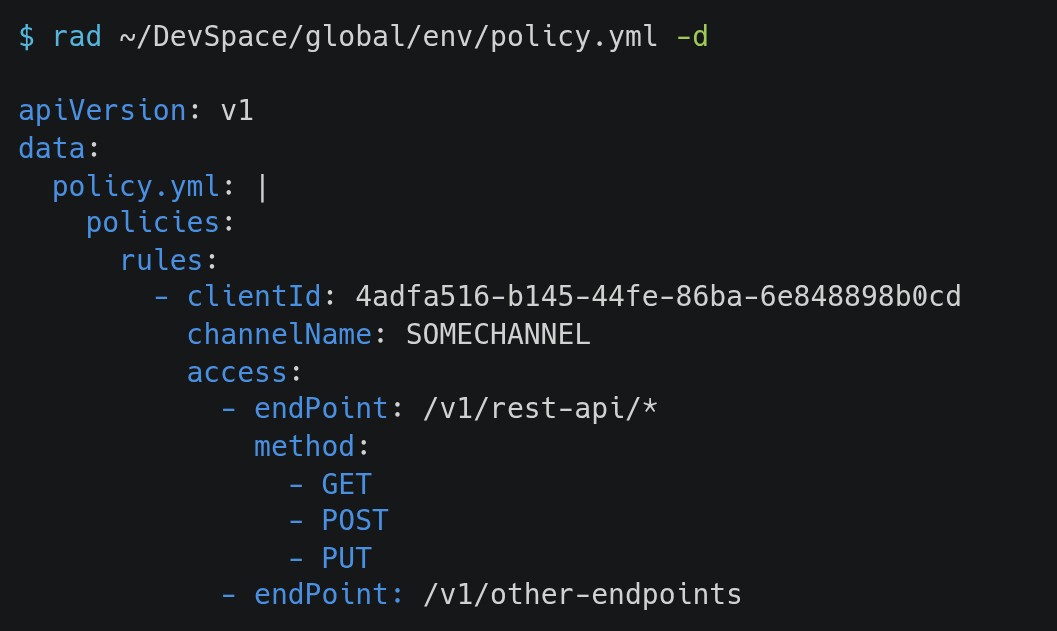
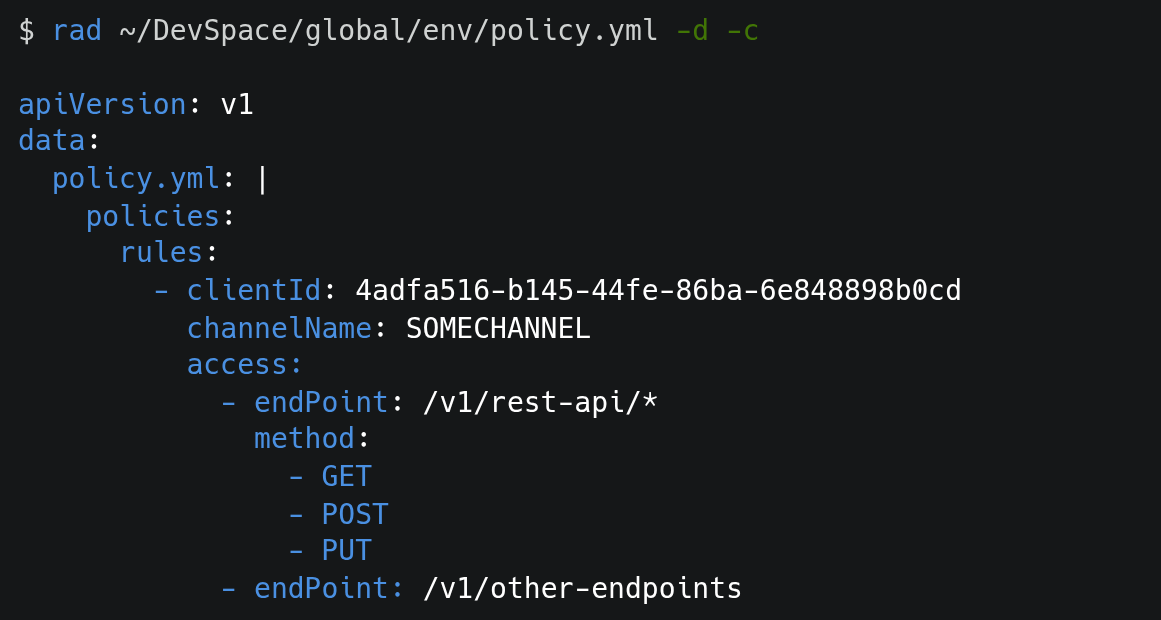
update README - typo

Changed region(s): [[0.1561, 0.429, 0.9054, 0.9806], [0.0, 0.0306, 0.6868, 0.0919], [0.0, 0.1532, 0.2498, 0.429]]

diff --git a/README.md b/README.md
@@ -129,7 +129,7 @@ INFO: SUCCESS! 3 files are VALID!
 > `rad` expect that `kubectl` must be added in your system's environment variable, if it's not set, you'll get this error message:
 
 ```shell
-$ rad ~/DevSpace/global/env/policy.yml
+$ rad ~/DevSpace/global/env/policy.yml -d
 
 rad: kubectl was not installed. Please configure your environment variable.
 ```
@@ -165,9 +165,17 @@ If you want to add color simply add `-c` arguments in the command like so:
 
 ![dry-run with -c flag](./docs/images/dry-run--c.png)
 
-Just a sidenote, you can also pass arguments like this `-d -c` or `-c -d` 
+Just a sidenote, you can also pass arguments like this `-d -c` , `-dc` 
+, `-c -d` or `-cd`
+
+
+
+
+
 
 Thanks!
+
+
 Brian
 
 
